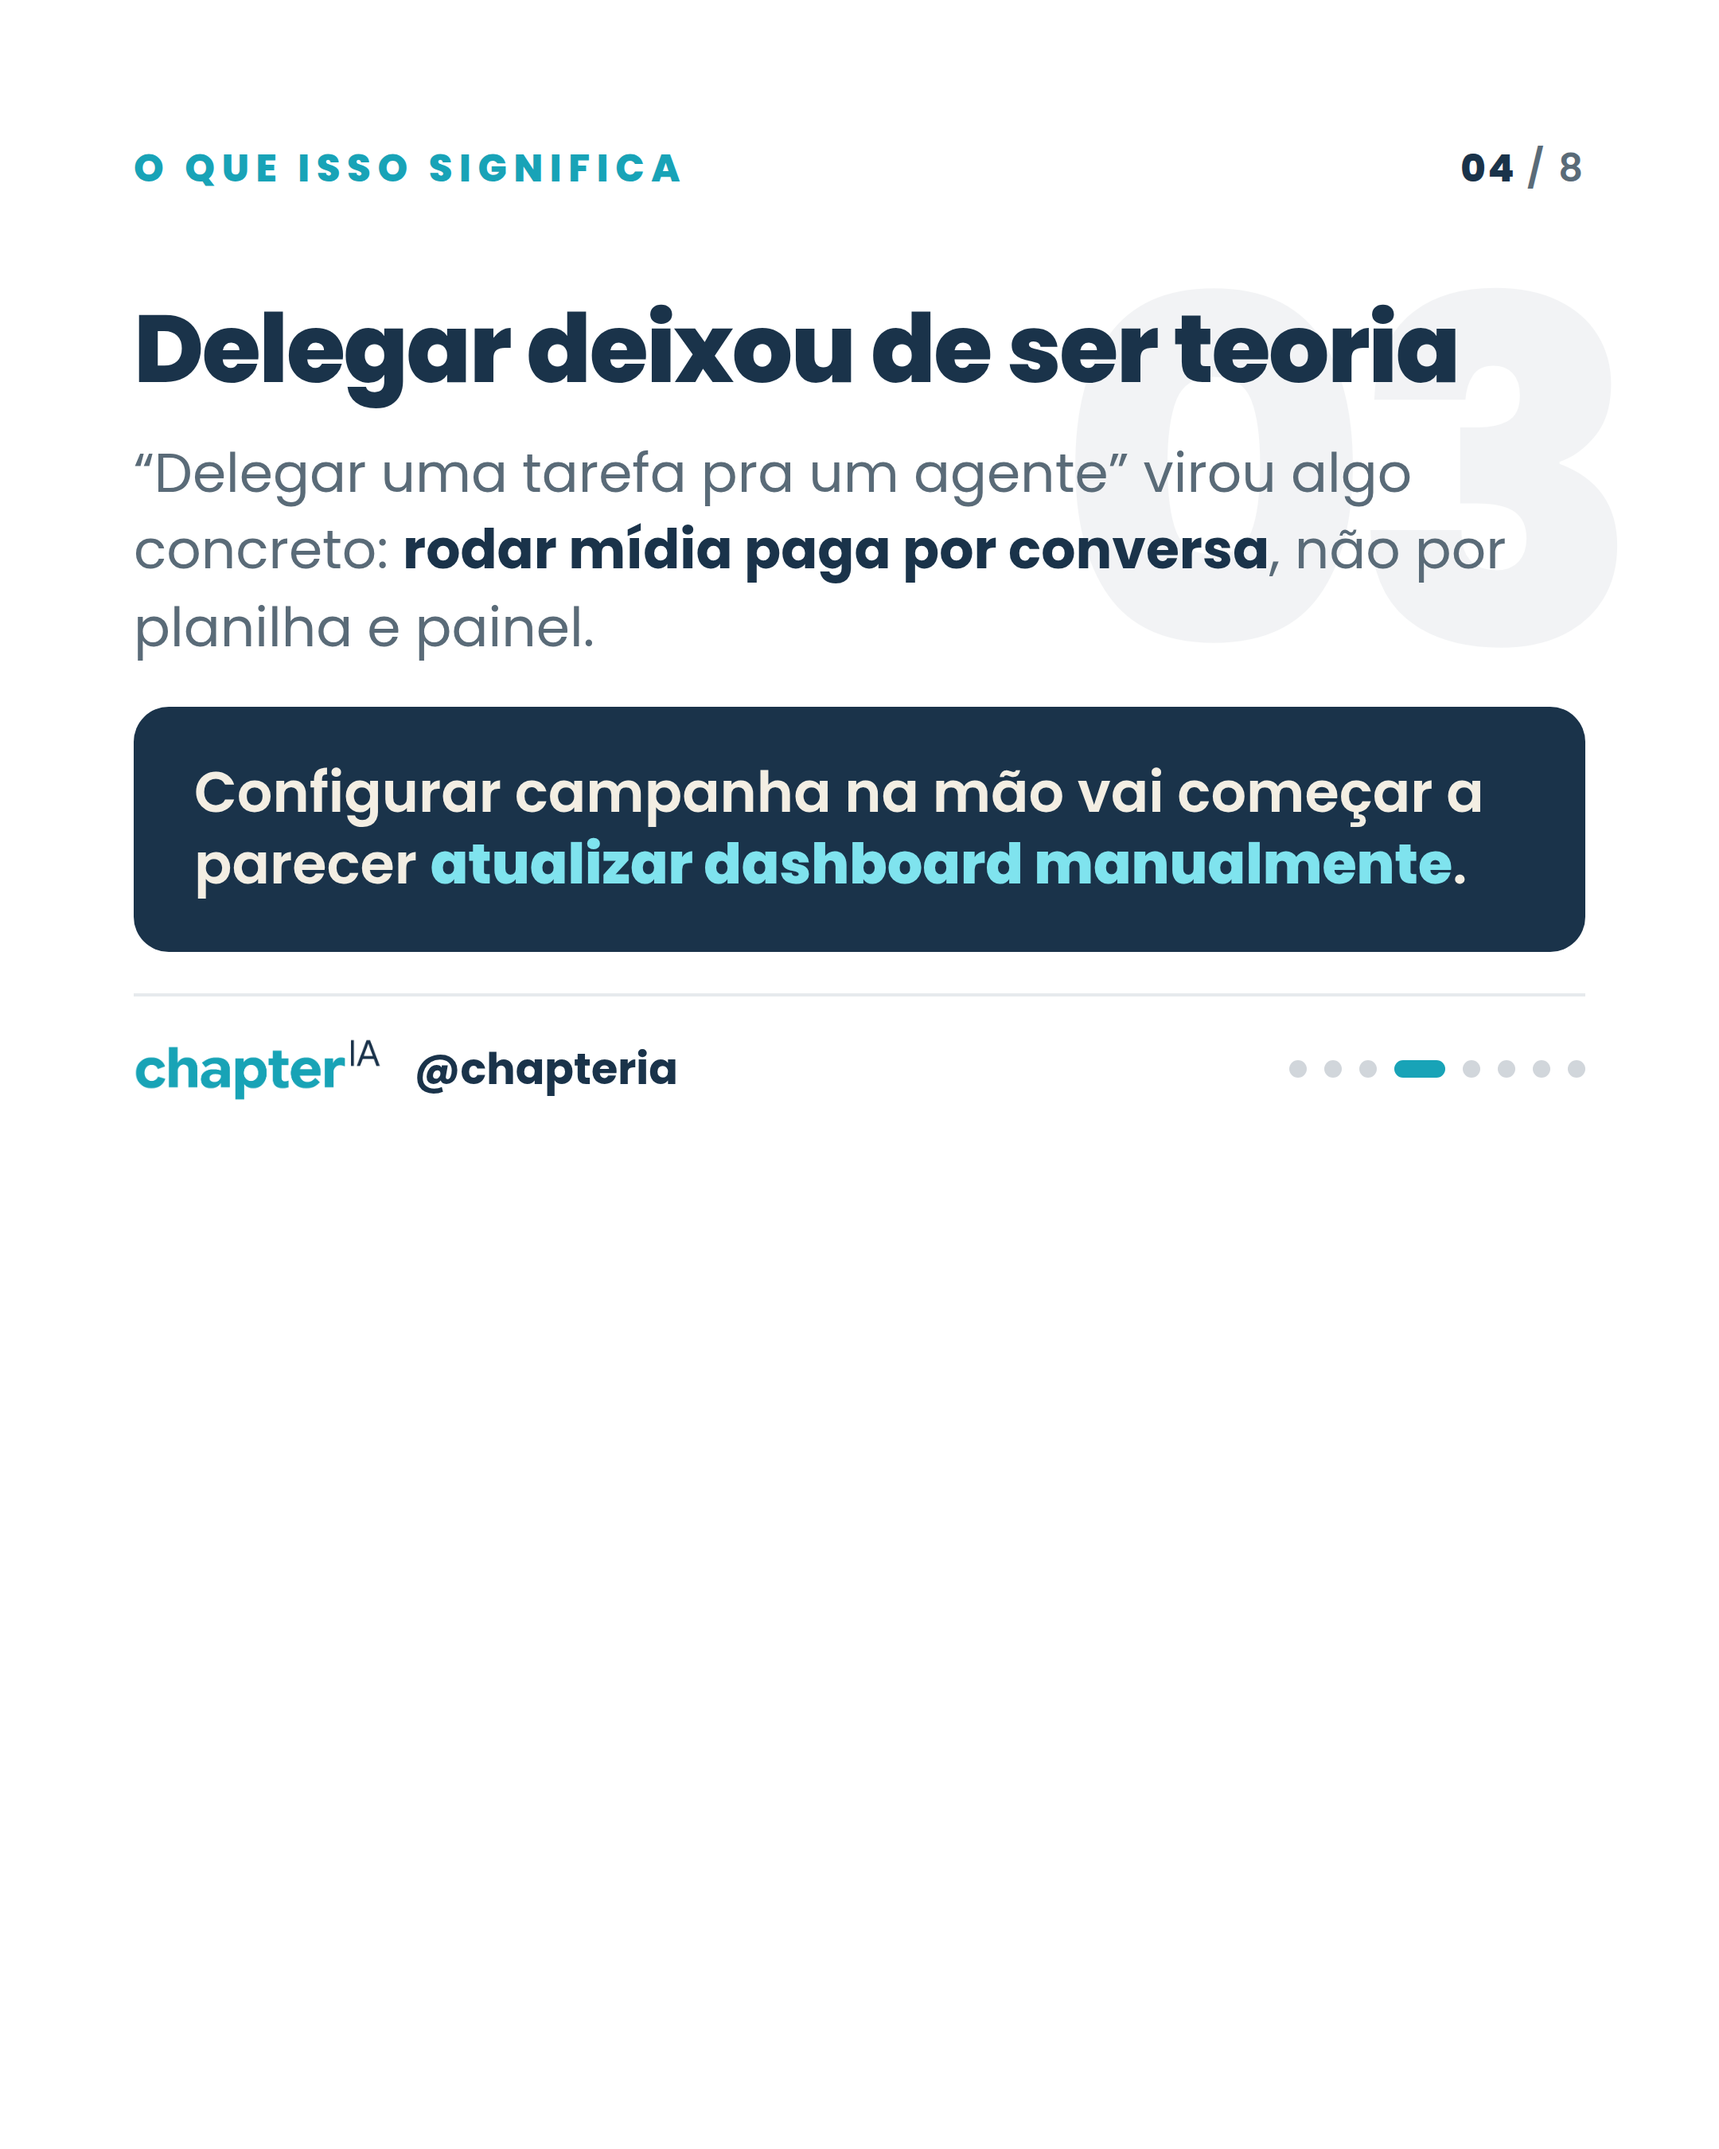
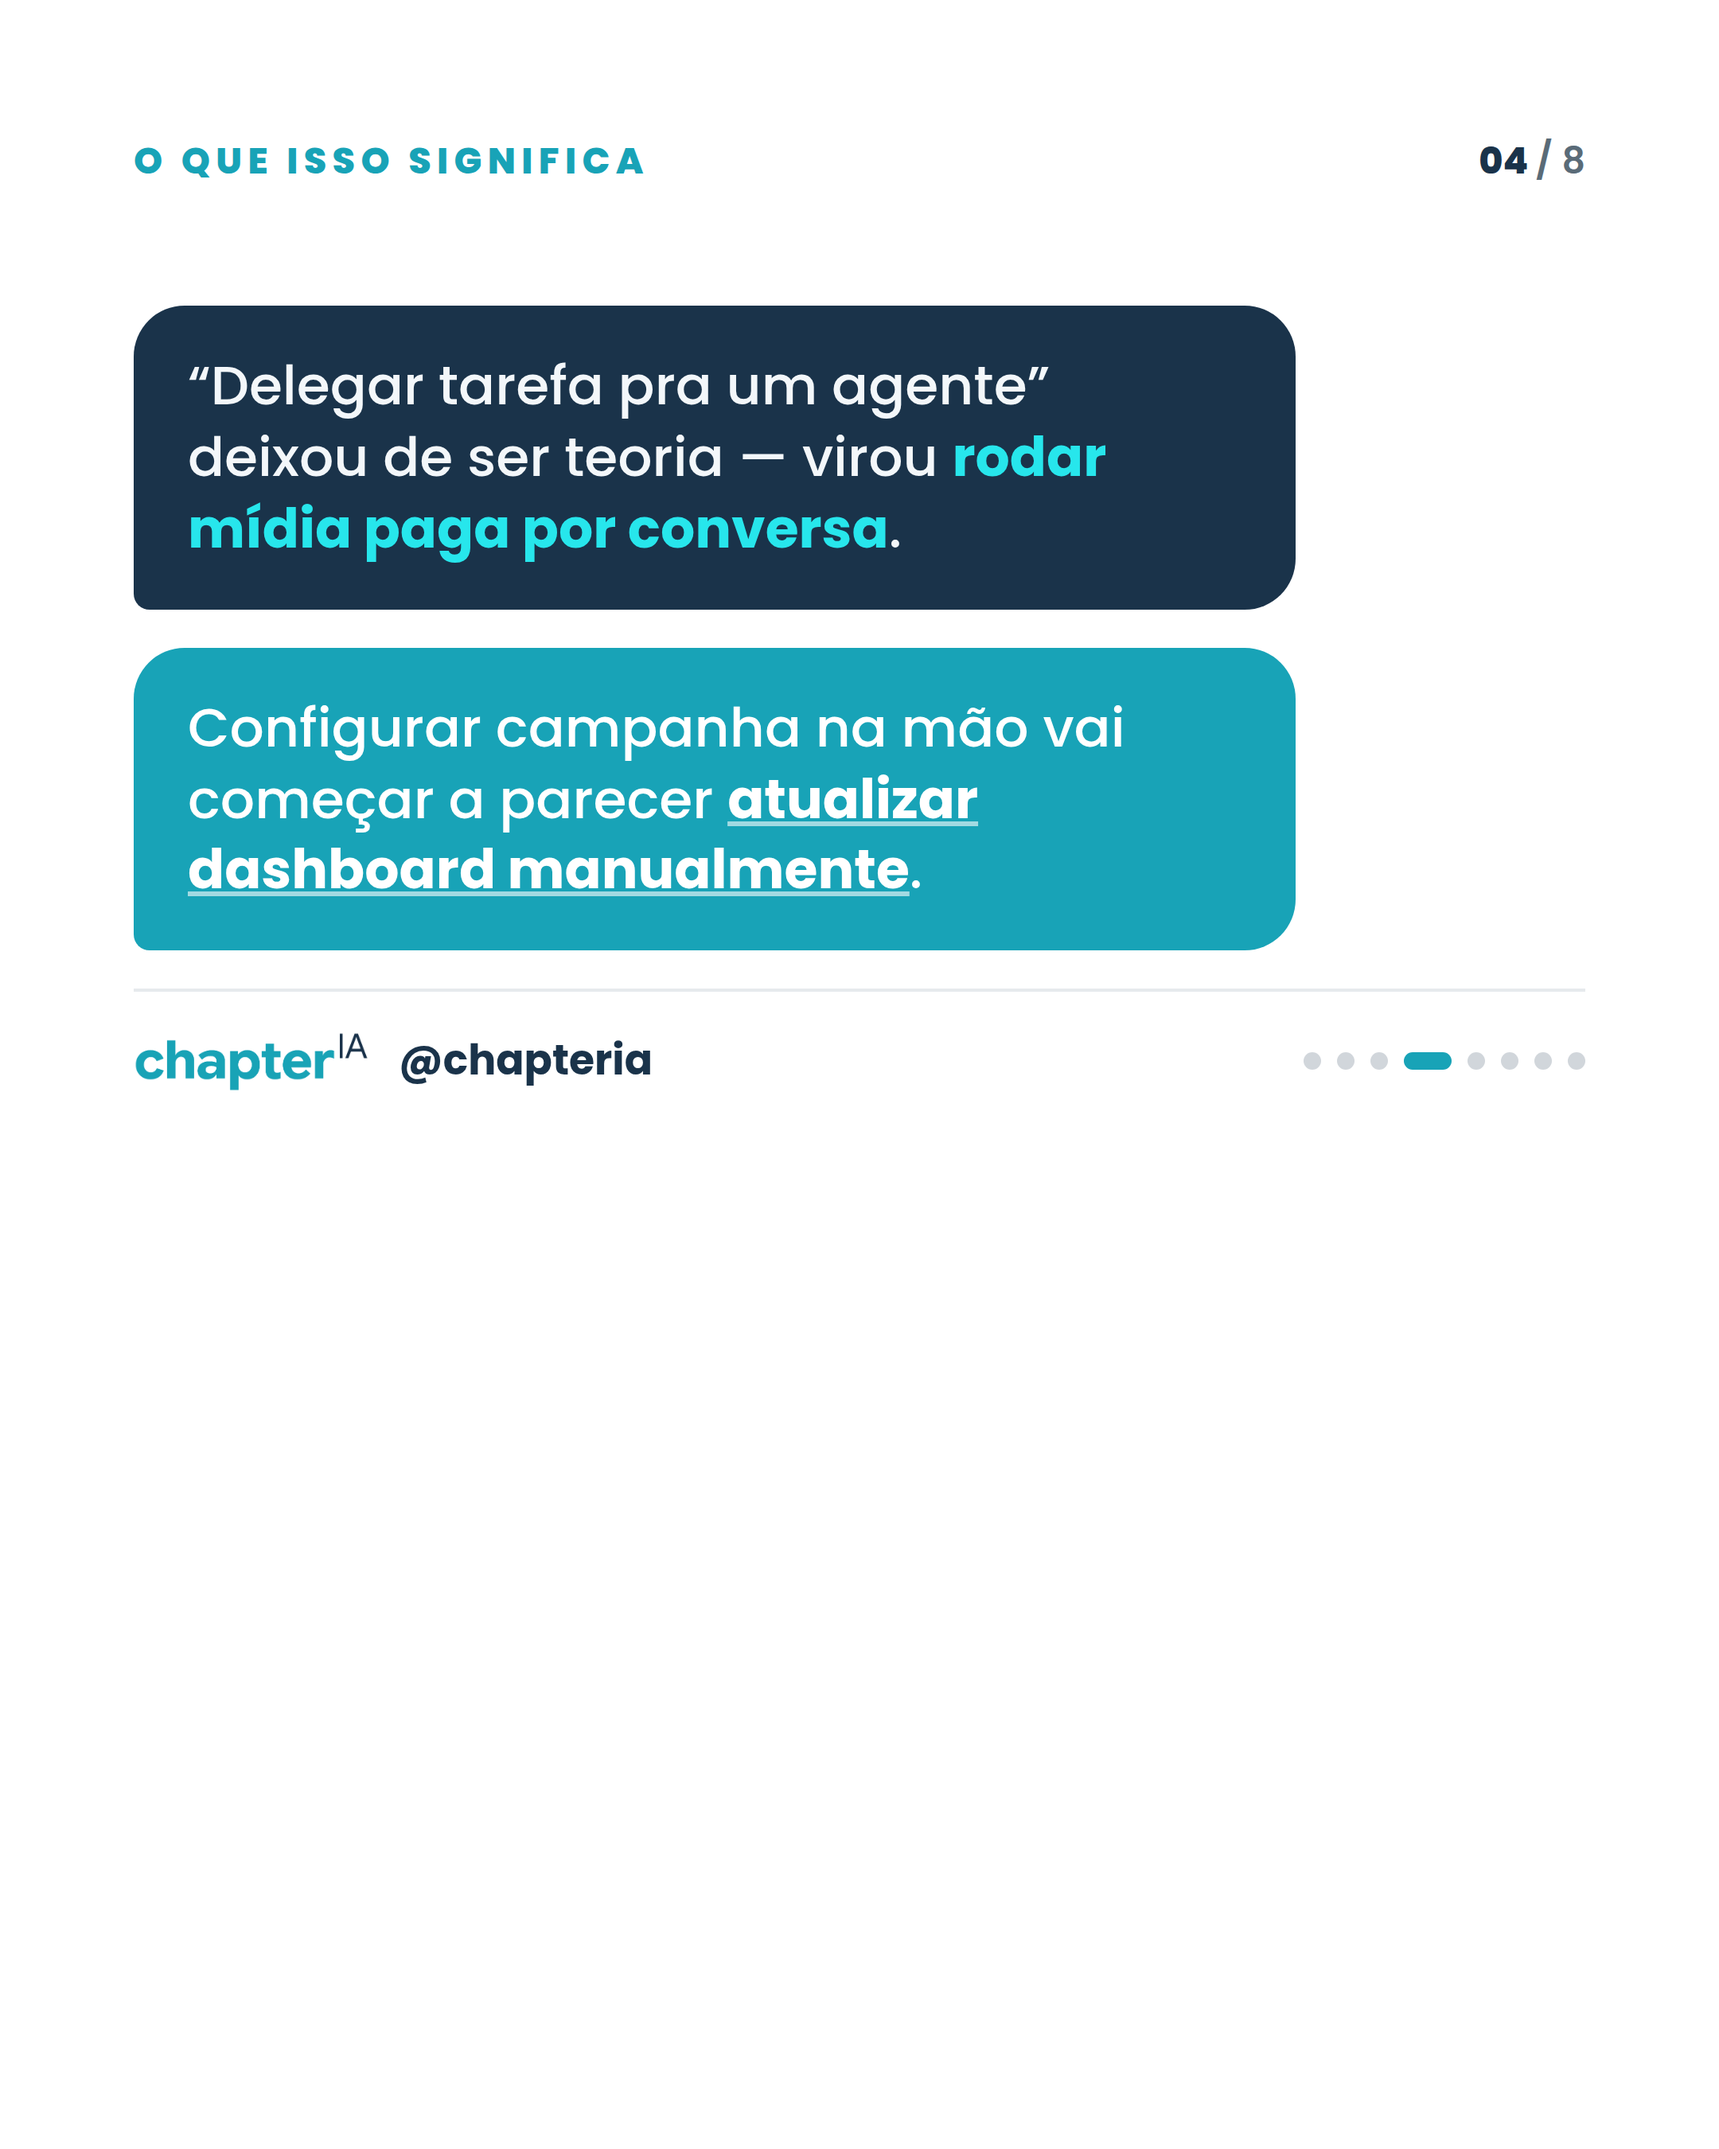
Refaz POST 2 (PropellerAds) com o skill huashu-design — formato chat
Usa o workflow do huashu-design (3 direções -> escolha -> execução). Direção
escolhida: 'Conversa + toques bold' — 8 slides em formato de chat (usuário
pergunta / agente responde), destaques petróleo/ciano. Números num card dentro
da conversa; ressalva do fornecedor mantida em balão à parte.

Claude-Session: https://claude.ai/code/session_01TRRjPqLtPPeRw63FEdxucr

Changed region(s): [[0.062, 0.1244, 0.9306, 0.5289], [0.062, 0.0622, 0.4032, 0.0933], [0.8375, 0.0622, 0.9306, 0.0933]]

diff --git a/social/posts/pauta-propellerads-agente/README.md b/social/posts/pauta-propellerads-agente/README.md
@@ -8,6 +8,16 @@ um agente de IA. Prioridade máxima (31/35).
 **Fontes:** PropellerAds (comunicado via PR Newswire) · The Agile Brand Guide
 **Publicação prevista:** 25/07/2026 (pauta de 24/07/2026)
 
+
+## Refeito com o skill huashu-design (formato CHAT)
+
+Esta versão foi refeita usando o skill **huashu-design** (método: 3 direções →
+usuário escolhe → executa). Direção escolhida: **"Conversa + toques bold"** —
+todos os 8 slides em formato de **chat** (o usuário pergunta, o agente responde),
+com destaques em petróleo/ciano. É o formato mais alinhado à notícia (rodar
+mídia por conversa). Os números (11× / 2–4×) aparecem num card dentro da conversa,
+e a ressalva do fornecedor num balão à parte.
+
 ## Cuidado editorial (importante)
 Os números (11× mais rápido; 2–4× mais receita) são **dos testes internos da
 própria PropellerAds** — o post os apresenta como **indicativos** (kicker "DO
